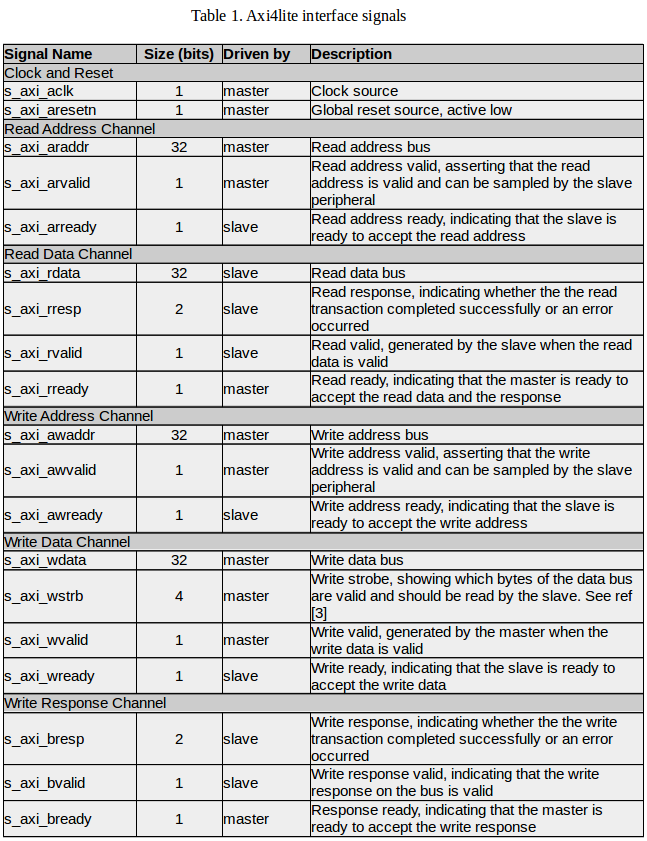
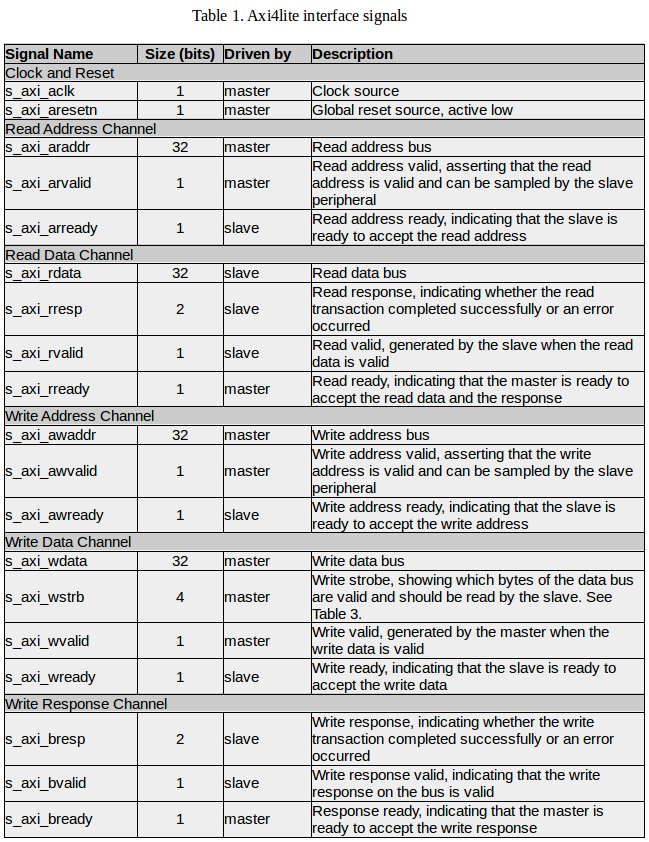
Adding example Simulink design and ax4lite response/strobe signalling to improve AXI documentation
Added example Simulink design to improve documentation
Added ax4lite response and write strobe signalling
Updated documentation

diff --git a/docs/axi4lite_documentation.md b/docs/axi4lite_documentation.md
@@ -38,23 +38,33 @@ Read data channel - signal names have the format s_axi_r...
 
 ![AXI4-Lite_interface_signals.png](../../mlib_devel/docs/_static/img/AXI4-Lite_interface_signals.png)
 
-The details of the s_axi_wstrb, s_axi_rresp and s_axi_bresp signals can be found but generally s_axi_wstrb = '1111' selects all bytes of the s_axi_wdata. The following error conditions exist for s_axi_rresp and bresp: "00" = Okay (normal access success), "01" Exclusive Okay (exclusive access success - read or write successful) = "10" = Slave Error (slave reached successfully, but slave returns an error condition) and "11" = Decode Error (No slave or transaction address)
+The details of the s_axi_wstrb and s_axi_rresp/s_axi_bresp signals can be found in Table 2 and Table 3 respectively.
+
+![axi4lite_response.png](../../mlib_devel/docs/_static/img/axi4lite_response.png)
+
+![s_axi_wstrb_signals.png](../../mlib_devel/docs/_static/img/s_axi_wstrb_signals.png)
 
 ## 5. Custom AXI4-Lite Interface
 
-The CASPER toolflow implements custom axi4lite interface based on the Xilinx IP integrator. The basic block diagram of the CASPER custom axi4lite IP is shown in Fig. 6 below. The platform instance (eg red_pitaya) connects to the AMBA memory map signals (eg DDR_x) and outputs master axi4lite signals (M_AXI) to the AXI_interconnect. Three axi4lite slave devices, in this case are arbitered by the AXI_interconnect. These devices are sys_block, software registers and the shared BRAM as shown in the diagram.
+The CASPER toolflow implements an axi4lite interface and a custom slave implementation that is based on the xml2vhdl code generation. To illustrate this concept we start with an example Simulink design that includes sofware registers (addr, data_in, data_low), BRAM (shared_bram) and a raw axi device (raw_axi_write_enable) as slave devices as shown in Fig 6.
+
+![example_simulink_design.png](../../mlib_devel/docs/_static/img/example_simulink_design.png)
+
+A block diagram of the CASPER custom axi4lite IP which is derived from the Simulink design is shown in Fig.7. The platform instance (eg red_pitaya) instantiates some logic which adapts a software interface (PL <-> PS ports eg DDR_x) which connects to the AXI_interconnect. Four axi4lite slave instances, in this case are arbitered by the AXI_interconnect. These slave instances are sys_block, sw_reg, shared_BRAM and the raw_axi_device as shown in the diagram. The existence of some of these slave instances is dynamic and depends on the Simulink yellow blocks the user instantiates. The sys_block_inst is always there as it is instantiated by the platform python code. The sw_reg_inst is always there but has a different number of outputs depending on how many sw_reg blocks a user instantiates. The bram_inst is not always there but we get one instance for each bram yellow block in the simulink design. The number of raw_axi_device instances depend on how many raw_axi devices a user instantiates.
+It is important to note that all of the axi4lite interconnect logic and the xml2vhdl slave generated blocks are dynamically wrapped up in the axi4lite_ic_wrapper and the exposed ports are available at top level to drive or be driven by Simulink or some other logic blocks. An exception to this is the raw_axi_device which must implement its own decoding logic such that it requires only a raw AXI interface.
 
 ![custom_AXI4-Lite_block_diagram.png](../../mlib_devel/docs/_static/img/custom_AXI4-Lite_block_diagram.png)
 
-In all cases, the AXI_interconnect connects to the axi4lite slave logic instances through the axi4lite mosi/miso signals. The ipb_mosi/miso signals connects the axi4lite slave logic to the MuxDemux blocks. You will see these signals as ipb_mosi[addr], ipb_mosi[req], ipb_mosi[wdat], ipb_mosi[wreq], ipb_miso[rack], ipb_miso[rdat] and ipb_miso[wack] in the toolflow. The respective registers or RAM can now be accessed through some decoding logic. It is important to note that the number of slaves on this axi4lite interface is 32.
+
+In all cases, the AXI_interconnect connects to the axi4lite slave logic instances through the axi4lite mosi/miso signals. The ipb_mosi/miso signals connects the axi4lite slave logic to the MuxDemux blocks. You will see these signals as ipb_mosi[addr], ipb_mosi[req], ipb_mosi[wdat], ipb_mosi[wreq], ipb_miso[rack], ipb_miso[rdat] and ipb_miso[wack] in the toolflow. The ipb_* string is some convention adopted in the xml2vhdl code. The respective registers or RAM can now be accessed through some decoding logic. It is important to note that the maximum number of slaves on this axi4lite interface is 32.
 
 The creation of an AXI device yellow block follow the general procedure decribed in Yellow Block Tutorial https://casper-toolflow.readthedocs.io/projects/tutorials/en/latest/tutorials/snap/tut_gpio_bidir.html?highlight=Yellow%20Block%20tutorials#yellow-block-tutorial-bidirectional-gpio
 
-Here we will show how the device memory maps and device axi4lite interfaces are created.
+Here we will show how the device memory maps and device axi4lite interfaces are created. The device memory map is created by the function axi4lite_memory_map() in /mlib_devel_axi/jasper_library/verilog.py which is called by the top VerilogModule. The device axi4lite interface is created by calling the function top.add_axi4lite_interface() as shown in the code segments for axi4lite devices below. This is effectively a call against top VerilogModule so that it creates an axi4lite interface whose properties are defined by the arguments passed as described at https://github.com/casper-astro/mlib_devel/blob/e3cd260b0f76d41bc3484e551dc0b117e6c181d8/jasper_library/verilog.py#L1390. The slave interfaces are instantiated differently based on the values assigned to the arguments eg typecode=TYPECODE_SWREG will result in the instantiation of a software register.
 
 ###  a. sys_block
-In the sys_block python code below, the sys_block memory map is created based on the class Register. See the definitions of the different arguments of the class Register in the docstrings found in .../mlib_devel/jasper_library/memory.py.  
-The sys_block axi4lite interface is created by calling the function top.add_axi4lite_interface() as shown in the code below.
+In the sys_block python code below, the sys_block registers are defined by calling the class Register to create an initial memory map. See the definitions of the different arguments of the class Register __init__() method in the docstrings found at https://github.com/casper-astro/mlib_devel/blob/e3cd260b0f76d41bc3484e551dc0b117e6c181d8/jasper_library/memory.py#L2
+The sys_block axi4lite interface is created by calling the function top.add_axi4lite_interface() as discussed. You can see that the created initial memory map is passed as one of the arguments. The typecode TYPECODE_SYSBLOCK results in the instantiation of a sys_block slave device.
 
     from .yellow_block import YellowBlock
     from memory import Register
@@ -79,7 +89,7 @@ The sys_block axi4lite interface is created by calling the function top.add_axi4
 
 
 ###  b. Software Register
-In the sw_reg python code below, the axi4lite interface is created by calling the function top.add_axi4lite_interface() and passing attributes based on whether the software register simulink block is configured as 'To Processor' or 'From processor'.
+In the sw_reg python code below, the sw_reg registers and sw_reg axi4lite interface are created by calling the function top.add_axi4lite_interface() as discussed and passing the mode (permissions) attribute that depends on whether the software register simulink block is configured as 'To Processor' or 'From processor'.  It is important to note that all software registers get ganged together in one sw_reg memory map entry (see axi4lite_memory_map() in /mlib_devel_axi/jasper_library/verilog.py) which will become a bunch of ports in the AXI interconnect. Here the typecode TYPECODE_SWREG results in the instantiation of a sw_reg slave device.
 
     from .yellow_block import YellowBlock
     from .yellow_block_typecodes import *
@@ -122,9 +132,10 @@ In the sw_reg python code below, the axi4lite interface is created by calling th
                         inst.add_port('IP_BUS',       signal='%s_out'%self.fullname, width=32, parent_sig=True)
                         inst.add_port('OP_BUS',       signal='%s_user_data_out'%self.fullname, width=32, parent_sig=True)
 
+The generated sw_reg_inst ports will be connected up at top level to the user_ip (Simulink design) ports added when the function _instantiate_user_ip() is executed in /mlib_devel_axi/jasper_library/toolflow.py based on port entries in the peripheral file (jasper.per).
 
 ###  c. BRAM
-In the bram python code below, the bram axi4lite interface is created by calling the function top.add_axi4lite_interface() while passing the relevant bram attributes.
+In the bram python code below, the bram register instance and the bram axi4lite interface are created by calling the function top.add_axi4lite_interface() while passing the relevant bram attributes as discussed. Here the typecode TYPECODE_BRAM results in the instantiation of a BRAM slave device.
 
     from .yellow_block import YellowBlock
     from math import log
@@ -149,12 +160,10 @@ In the bram python code below, the bram axi4lite interface is created by calling
                   # creating the bram axi4lite interface
                     [top.add_axi4lite_interface(regname=self.unique_name,mode='rw', nbytes=self.depth*self.data_width//8, typecode=self.typecode,data_width=self.data_width)] #width is in bits
 
+Like the sys_block, there is no BRAM instance that is created at top level. However, the ports entries are created in the AXI interconnect which are connected up at top level to the user_ip (Simulink design) ports added when the function _instantiate_user_ip() is executed in toolflow.py based on port entries in the peripheral file (jasper.per).
+
 ###  d. Raw AXI4-Lite Interface
-The raw AXI4-Lite implementation in the toolflow follows the philosophy illustrated in the block diagram of Fig. 7.
-
-![custom_raw_AXI4-Lite_block_diagram.png](../../mlib_devel/docs/_static/img/custom_raw_AXI4-Lite_block_diagram.png)
-
-It is important to note that the raw AXI device instances are implemented outside the axi4lite_ic_wrapper unlike the sys_block, software registers and the bram instances shown previously.
+The raw AXI4-Lite implementation in the toolflow follows the philosophy illustrated in the block diagram of Fig. 7. It is important to note that the raw AXI device instances are implemented outside the axi4lite_ic_wrapper unlike the sys_block, software registers and the bram instances shown previously.
 
 ####   i. Simulink Block
 The developer needs to create a raw AXI simulink block based on the tutorial found at https://casper-toolflow.readthedocs.io/projects/tutorials/en/latest/tutorials/snap/tut_gpio_bidir.html?highlight=gpio. However, for testing purposes only, one may want to use the software register found in .../mlib_devel/xps_library/xps_models. In this case, we change the tag of the sw_reg block to something else that represents the raw AXI device eg raw_axi as follows:
@@ -162,45 +171,27 @@ The developer needs to create a raw AXI simulink block based on the tutorial fou
 ![raw_AXI_device_simulink_block.png](../../mlib_devel/docs/_static/img/raw_AXI_device_simulink_block.png)
 
 ####   ii Yellow Block Python Script (raw_axi.py)
-It is important to name the yellow block python script and yellow_block class as the simulink block tag. The yellow block script code is similar to that of the software register except that the code under the the 'To Processor' and 'From Processor' is replaced by the following:
+It is important to name the yellow block python script and yellow_block class as the simulink block tag. The yellow block script code is similar to that of the software register except that the code under the 'From Processor' is replaced by the code block below. Note that the code has only been tested for the 'From Processor' configured software register, that has 'rw' permissions.
 
             if self.platform.mmbus_architecture == 'AXI4-Lite':
                 module = 'raw_axi4lite_slave'
                 **top.add_axi4lite_interface(regname=self.unique_name, mode='rw', nbytes=4, default_val=self.init_val, typecode=self.typecode, axi4lite_mode='raw')**
                 inst = top.get_instance(entity=module, name=self.fullname)
-
-                reg_name = self.name
-
-                 # axi4lite clock and reset signals
+                **inst.add_axi_interface(regname=self.unique_name, mode='rw', nbytes=4, default_val=self.init_val, typecode=self.typecode, axi4lite_mode='raw')**
+                # axi4lite clock and reset signals
                 inst.add_port('axi4lite_aclk',    'axil_clk')
                 inst.add_port('axi4lite_aresetn', 'axil_rst_n')
-                # # axi4l miso signals
-                inst.add_port('s_axi4lite_awready', 'm_axi4lite_%s_awready' %reg_name)
-                inst.add_port('s_axi4lite_wready',  'm_axi4lite_%s_wready' %reg_name)
-                inst.add_port('s_axi4lite_bresp',   'm_axi4lite_%s_bresp' %reg_name,  width=2)
-                inst.add_port('s_axi4lite_bvalid',  'm_axi4lite_%s_bvalid'%reg_name)
-                inst.add_port('s_axi4lite_arready', 'm_axi4lite_%s_arready'%reg_name)
-                inst.add_port('s_axi4lite_rresp',   'm_axi4lite_%s_rresp' %reg_name,  width=2)
-                inst.add_port('s_axi4lite_rdata',   'm_axi4lite_%s_rdata' %reg_name, width=32)
-                inst.add_port('s_axi4lite_rvalid',  'm_axi4lite_%s_rvalid' %reg_name)
-                # axi4l mosi signals
-                inst.add_port('s_axi4lite_awaddr',  'm_axi4lite_%s_awaddr' %reg_name, width=32)
-                inst.add_port('s_axi4lite_awvalid', 'm_axi4lite_%s_awvalid' %reg_name)
-                inst.add_port('s_axi4lite_wdata',   'm_axi4lite_%s_wdata' %reg_name, width=32)
-                inst.add_port('s_axi4lite_wvalid',  'm_axi4lite_%s_wvalid' %reg_name)
-                inst.add_port('s_axi4lite_wstrb',   'm_axi4lite_%s_wstrb' %reg_name, width=4)
-                inst.add_port('s_axi4lite_araddr',  'm_axi4lite_%s_araddr' %reg_name, width=32)
-                inst.add_port('s_axi4lite_arvalid', 'm_axi4lite_%s_arvalid' %reg_name)
-                inst.add_port('s_axi4lite_rready',  'm_axi4lite_%s_rready' %reg_name)
-                inst.add_port('s_axi4lite_bready',  'm_axi4lite_%s_bready' %reg_name)
                 inst.add_port('user_data_out', '%s_user_data_out' %self.fullname, width=32)
 
+The function add_axi4lite_interface() creates the axi4lite interface at top level as discussed while function add_axi_interface() in /mlib_devel_axi/jasper_library/verilog.py adds all the axi4lite ports.                
+
 ####   iii Creating hdl Source Code
-The hdl source code for the raw AXI device will obviously contain a declaration of the ports in the corresponding python script. If the connecting blocks have record type signals then these port signals need to be assigned to the corresponding split record type signals.
-The achitecture body of the code will contain the entire slave logic or connected up to the xml2vhdl generated code for that device using 'port map'.
+The hdl source code for the raw AXI device will obviously contain a declaration of the axi4lite ports. If the connecting blocks have record type signals then these port signals need to be assigned to the corresponding split record type signals.
+The achitecture body of the raw_axi4lite_device may contain the entire hdl slave logic or may be connected up to the xml2vhdl generated code for that device using 'port map'.
 
 ## 6. XML File Generation
-Each axi4lite interface is represented by an xml memory map file generated by the toolflow; ...mlib_devel/jasper_library/toolflow.py > Toolflow.generate_xml_memory_map() and Toolflow.generate_xml_ic(). For example, the generated xml file for the sys_block is as follows: 
+Each axi4lite interface is represented by an xml memory map file generated by the toolflow; /mlib_devel/jasper_library/toolflow.py > Toolflow.generate_xml_memory_map() and Toolflow.generate_xml_ic() based on the python xml libraries. The generate_xml_memory_map() function generates the xml memory map files that represent each AXI4-Lite interface. The generate_xml_ic() generates the xml interconnect file that represent top-level AXI4-Lite interconnect by linking to the individual memory map interfaces. 
+The generated xml file for the sys_block is shown below. It can be seen that the root Element has an id="sys_block". The respective child Elements have attributes (address, axi4lite_mode, description, hw_rst, id, mask, permission) that are assigned values for the different sys_block registers. Note that the registers' child Elements have varying attributes depending on whether the register mode is 'r' or 'rw' and the register is a ram or not.
 
         <?xml version="1.0" ?>
     <node id="sys_block">
@@ -211,7 +202,10 @@ Each axi4lite interface is represented by an xml memory map file generated by th
 	    <node address="0x14" axi4lite_mode="" description="sys_block_sys_clkcounter" hw_permission="w" id="sys_clkcounter" mask="0xffffffff" permission="r"/>
     </node>
 
-The corresponding hdl code for the sys_block is generated by the xml2vhdl python code developed by the University of Oxford based on this xml file.
+The generated xml files are located at .../design_directory/xml2vhdl_source. In this directory, you will find the following files: axi4lite_top_ic_memory_map.xml, sys_block_memory_map.xml, sw_reg_memory_map.xml, shared_bram_memory_map.xml and any raw axi memory map file(s). 
+
+The corresponding hdl code is generated by the xml2vhdl python code developed by the University of Oxford based on these xml files by calling the Xml2VhdlGenerate(args) function from xml2vhdl() in toolflow.py. The generated hdl files are located at .../design_directory/xml2vhdl_hdl_output. In this directory, you will find package and source files for the different interfaces.
+The documentation of the xml2vhdl is planned.
 
 
 References
